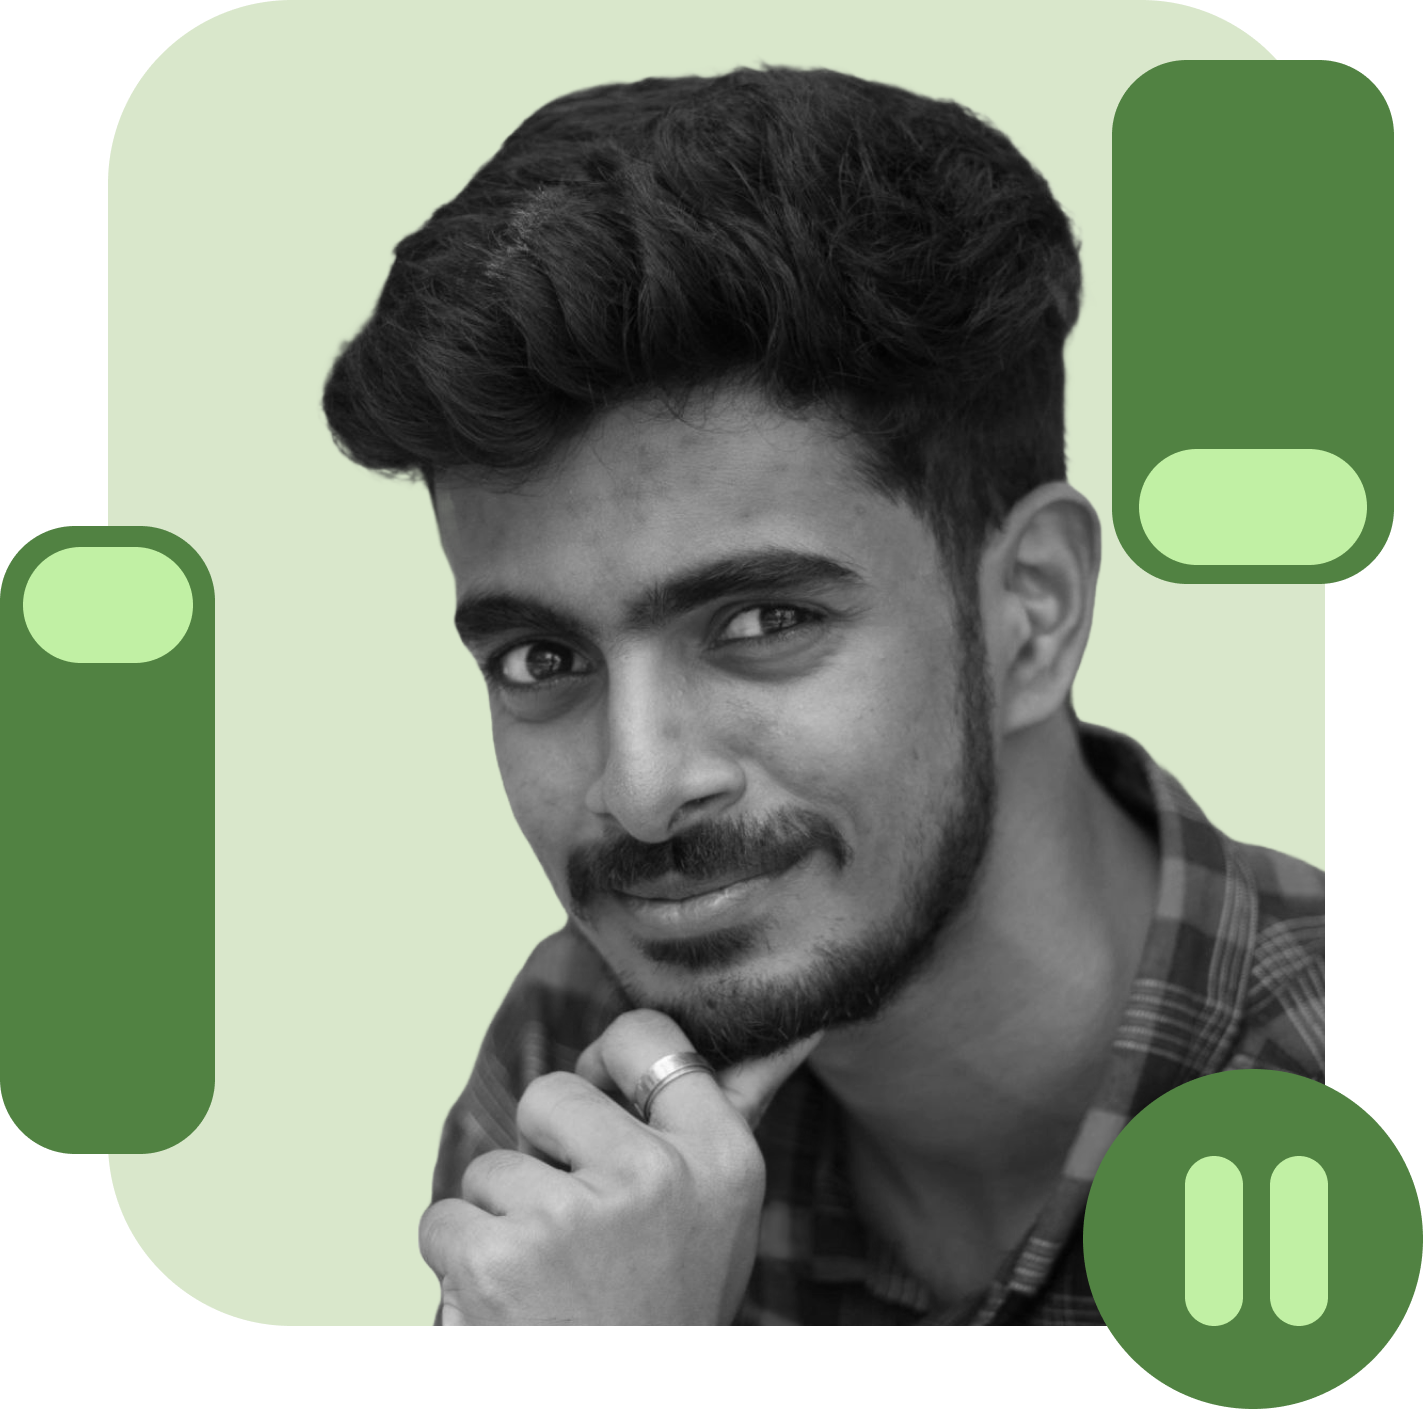
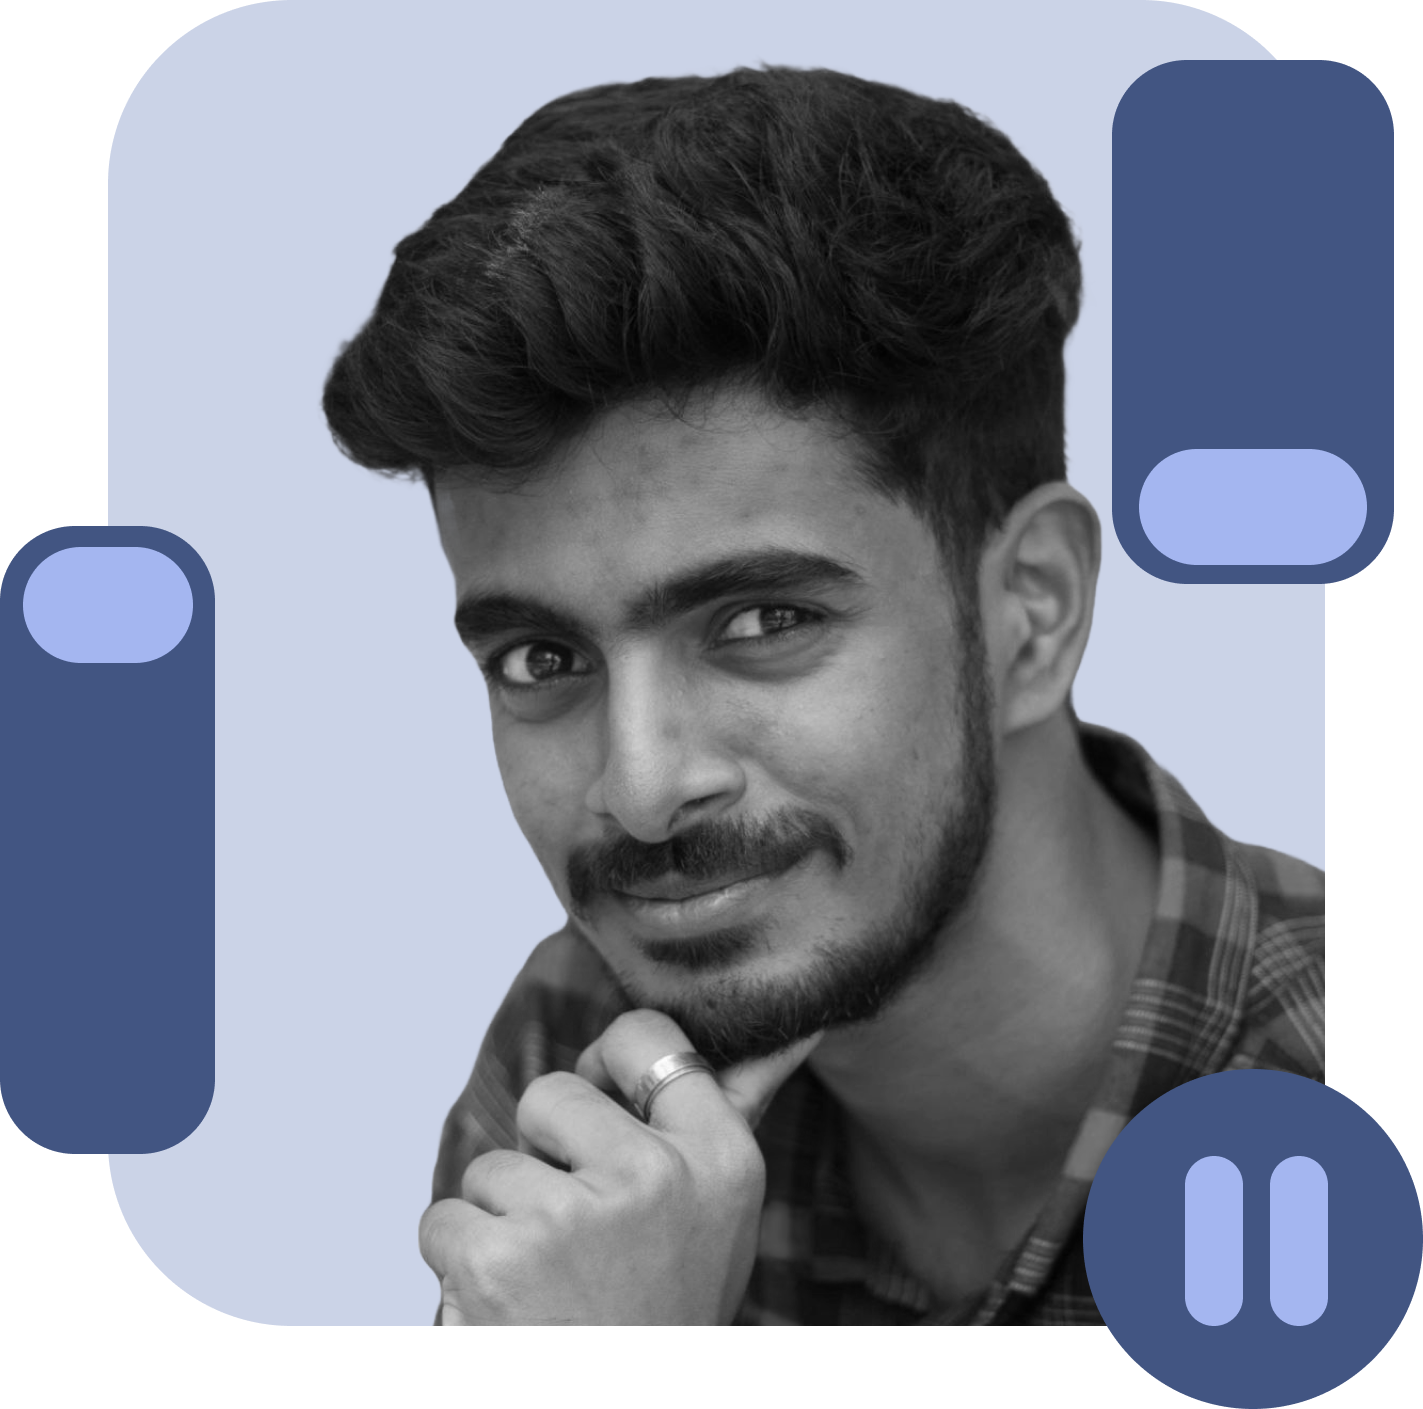
Theme Change

diff --git a/index.html b/index.html
@@ -65,20 +65,19 @@
     <p class="section__text__p1">Get To Know More</p>
     <h1 class="title">About Me</h1>
     <div class="section-container">
-      <div class="section__pic-container">
-        <img src="./assets/about-pic.png" alt="Profile picture" class="about-pic" />
-      </div>
       <div class="about-details-container">
         <div class="about-containers">
           <div class="details-container">
-            <img src="./assets/experience.png" alt="Experience icon" class="icon" />
-            <h3>Working On</h3>
-            <p>Creating Solutions<br />With Code</p>
+            <img src="./assets/developer.svg" alt="Education icon" class="icon" />
+            <h3>Developer</h3>
           </div>
           <div class="details-container">
-            <img src="./assets/education.png" alt="Education icon" class="icon" />
-            <h3>Education</h3>
-            <p>B.Tech Computer Science and Engineering<br /></p>
+            <img src="./assets/designer.svg" alt="Experience icon" class="icon" />
+            <h3>Designer</h3>
+          </div>
+          <div class="details-container">
+            <img src="./assets/leader.svg" alt="Education icon" class="icon" />
+            <h3>Leader</h3>
           </div>
         </div>
         <div class="text-container">
@@ -149,7 +148,7 @@
           <div class="article-container">
             <img src="./assets/project-2.png" alt="Project 2" class="project-img" />
           </div>
-          <h2 class="experience-sub-title project-title">Project Two</h2>
+          <h2 class="experience-sub-title project-title">Project Somthing</h2>
           <div class="btn-container">
             <button class="btn btn-color-2 project-btn" onclick="location.href='https://github.com/'">
               Github
@@ -160,7 +159,7 @@
           <div class="article-container">
             <img src="./assets/project-3.png" alt="Project 3" class="project-img" />
           </div>
-          <h2 class="experience-sub-title project-title">Project Three</h2>
+          <h2 class="experience-sub-title project-title">Project X</h2>
           <div class="btn-container">
             <button class="btn btn-color-2 project-btn" onclick="location.href='https://github.com/'">
               Github

diff --git a/style.css b/style.css
@@ -1,9 +1,9 @@
 :root {
   --light-dark-background: #1f2021;
-  --primary-color: #518242;
-  --secondary-color: #C1F0A4;
-  --tertiary-color: #072100;
-  --pale-color: #D9E7CB;
+  --primary-color: #425582;
+  --secondary-color: #a4b6f0;
+  --tertiary-color: #000221;
+  --pale-color: #cbd3e7;
 }
 
 @import url("https://fonts.googleapis.com/css2?family=Poppins:wght@300;400;500;600&display=swap");
@@ -25,7 +25,6 @@ html {
 p {
   color: var(--light-text);
   font-size: 19px;
-  line-height: 25px;
 }
 /* TRANSITION */
 
@@ -309,6 +308,13 @@ section {
   position: absolute;
   right: -5rem;
   bottom: 2.5rem;
+}
+
+.text-container{
+  background-color: var(--pale-color);
+  padding: 2rem;
+  border-radius: 2rem;
+  font-weight: 400;
 }
 
 .details-container {

diff --git a/mediaqueries.css b/mediaqueries.css
@@ -1,6 +1,6 @@
 @media screen and (max-width: 1400px) {
   #profile {
-    height: 83vh;
+    height: 60vh;
     margin-bottom: 6rem;
   }
   .about-containers {
